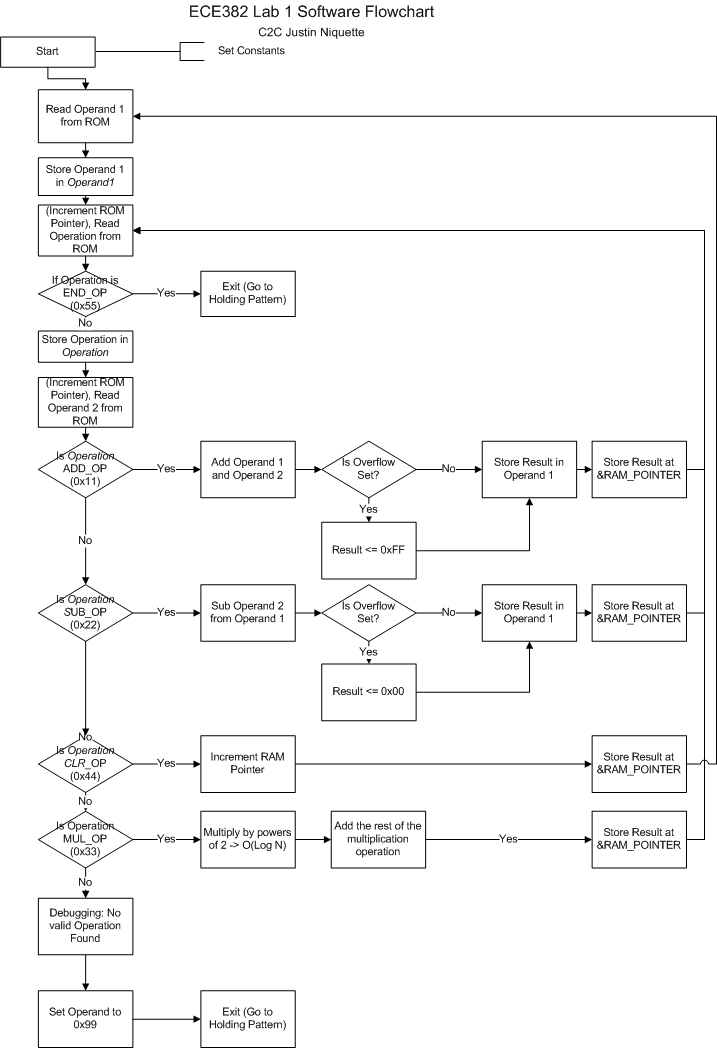
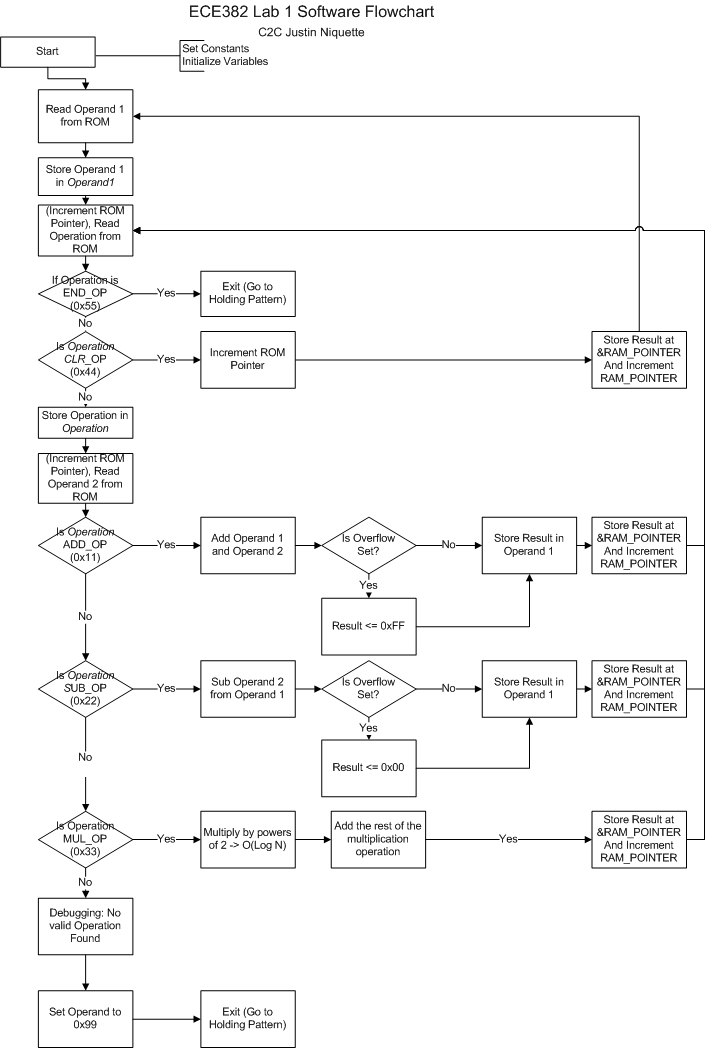
Updated Readme

diff --git a/README.md b/README.md
@@ -17,6 +17,12 @@ Secondly, since the CLR_OP Operation doesn't have a second operand, I moved its 
 The following flowchart shows the modified sequence of events.
 ![alt text](https://github.com/jniquette/ECE382-Lab1/blob/master/images/software_flowchart2.png "Modified Software Flowchart")
 
+##Code
+All code for this project can be found in code/main.asm.
+
+##Testing Methodology
+The INPUT Constant was set to each of the required test cases, the code was built, and the debug started. Before stepping through the debug process, the RAM was cleared from 0x0200 to 0x0300 so that it would be easy to see where the results were stored. For each test case I stepped through the program and matched my hand calculations to those that appeared in the results section of RAM.
+
 ##Test Cases
 ###Required Functionality
 Input: 0x11, 0x11, 0x11, 0x11, 0x11, 0x44, 0x22, 0x22, 0x22, 0x11, 0xCC, 0x55
